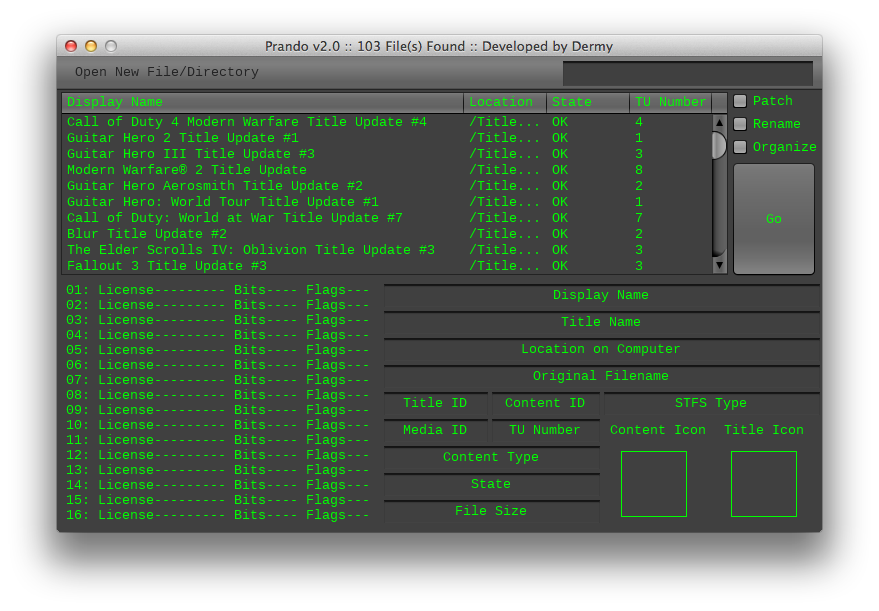
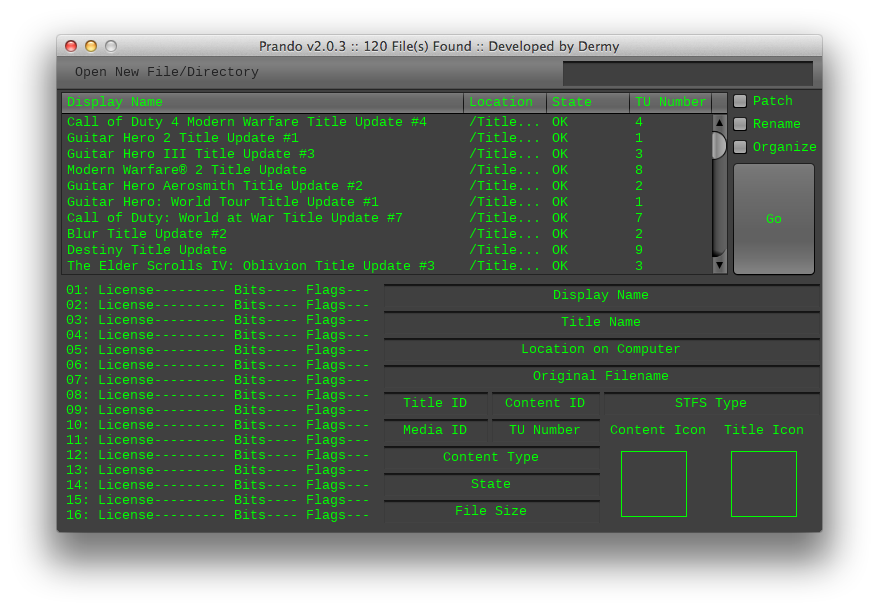
minor color coordination change

Changed region(s): [[0.0614, 0.4043, 0.4915, 0.4664], [0.2765, 0.0622, 0.7065, 0.0933]]

diff --git a/src/prando/Prando.java b/src/prando/Prando.java
@@ -35,7 +35,7 @@ import prando.util.Utilities;
 
 public class Prando
 {
-    public static final String VERSION = "2.1.1";
+    public static final String VERSION = "2.0.3";
 
     private String arg;
 
@@ -155,7 +155,7 @@ public class Prando
         UIManager.put("nimbusBase", Color.DARK_GRAY);
         UIManager.put("nimbusBlueGrey", Color.DARK_GRAY);
         UIManager.put("nimbusSelectionBackground", Color.DARK_GRAY);
-        UIManager.put("nimbusFocus", Color.GREEN);
+        UIManager.put("nimbusFocus", Color.WHITE);
         UIManager.put("text", Color.GREEN);
         UIManager.put("control", Color.DARK_GRAY);
         UIManager.put("List[Selected].textForeground", Color.WHITE);
@@ -169,7 +169,7 @@ public class Prando
         UIManager.put("nimbusBase", Color.BLACK);
         UIManager.put("nimbusBlueGrey", Color.BLACK);
         UIManager.put("nimbusSelectionBackground", Color.BLACK);
-        UIManager.put("nimbusFocus", Color.GREEN);
+        UIManager.put("nimbusFocus", Color.WHITE);
         UIManager.put("text", Color.GREEN);
         UIManager.put("control", Color.BLACK);
         UIManager.put("List[Selected].textForeground", Color.WHITE);
@@ -184,7 +184,7 @@ public class Prando
         UIManager.put("nimbusBase", Color.DARK_GRAY);
         UIManager.put("nimbusBlueGrey", Color.DARK_GRAY);
         UIManager.put("nimbusSelectionBackground", Color.DARK_GRAY);
-        UIManager.put("nimbusFocus", Color.WHITE);
+        UIManager.put("nimbusFocus", Color.GREEN);
         UIManager.put("text", Color.WHITE);
         UIManager.put("nimbusSelectedText", Color.GREEN);
         UIManager.put("control", Color.DARK_GRAY);
@@ -199,7 +199,7 @@ public class Prando
         UIManager.put("nimbusBase", Color.BLACK);
         UIManager.put("nimbusBlueGrey", Color.BLACK);
         UIManager.put("nimbusSelectionBackground", Color.BLACK);
-        UIManager.put("nimbusFocus", Color.WHITE);
+        UIManager.put("nimbusFocus", Color.GREEN);
         UIManager.put("text", Color.WHITE);
         UIManager.put("nimbusSelectedText", Color.GREEN);
         UIManager.put("control", Color.BLACK);
